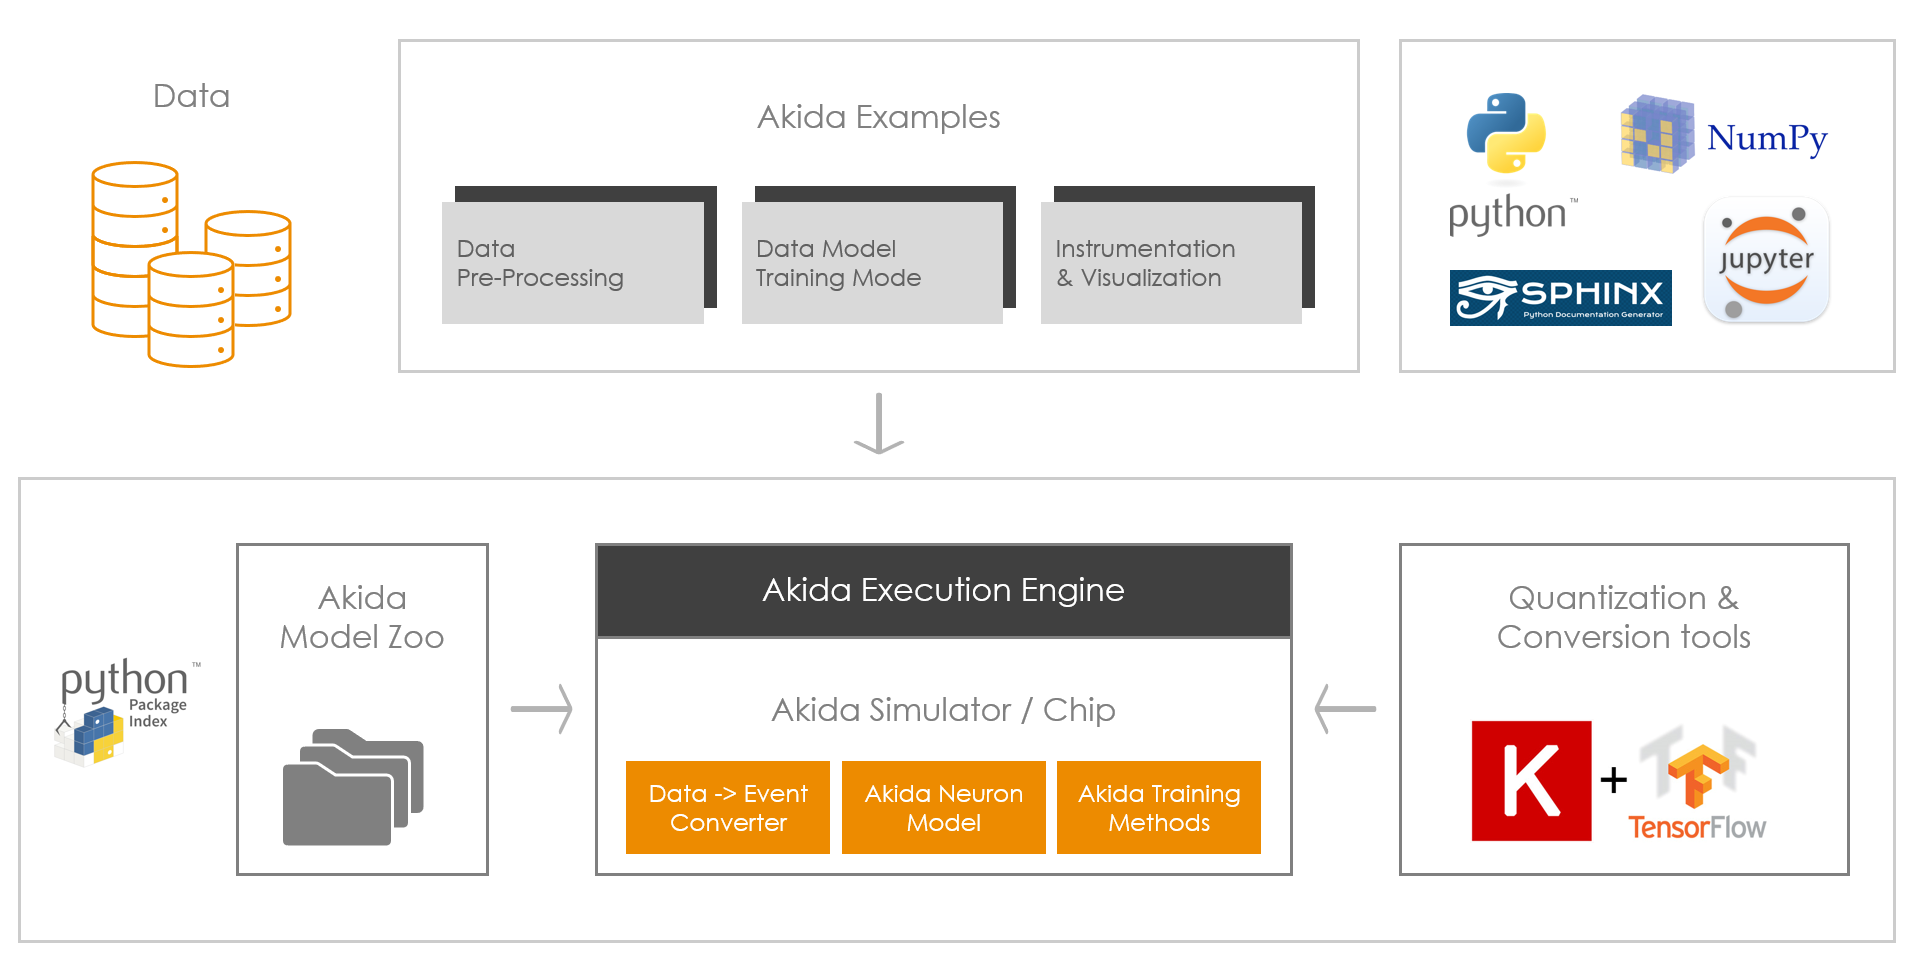
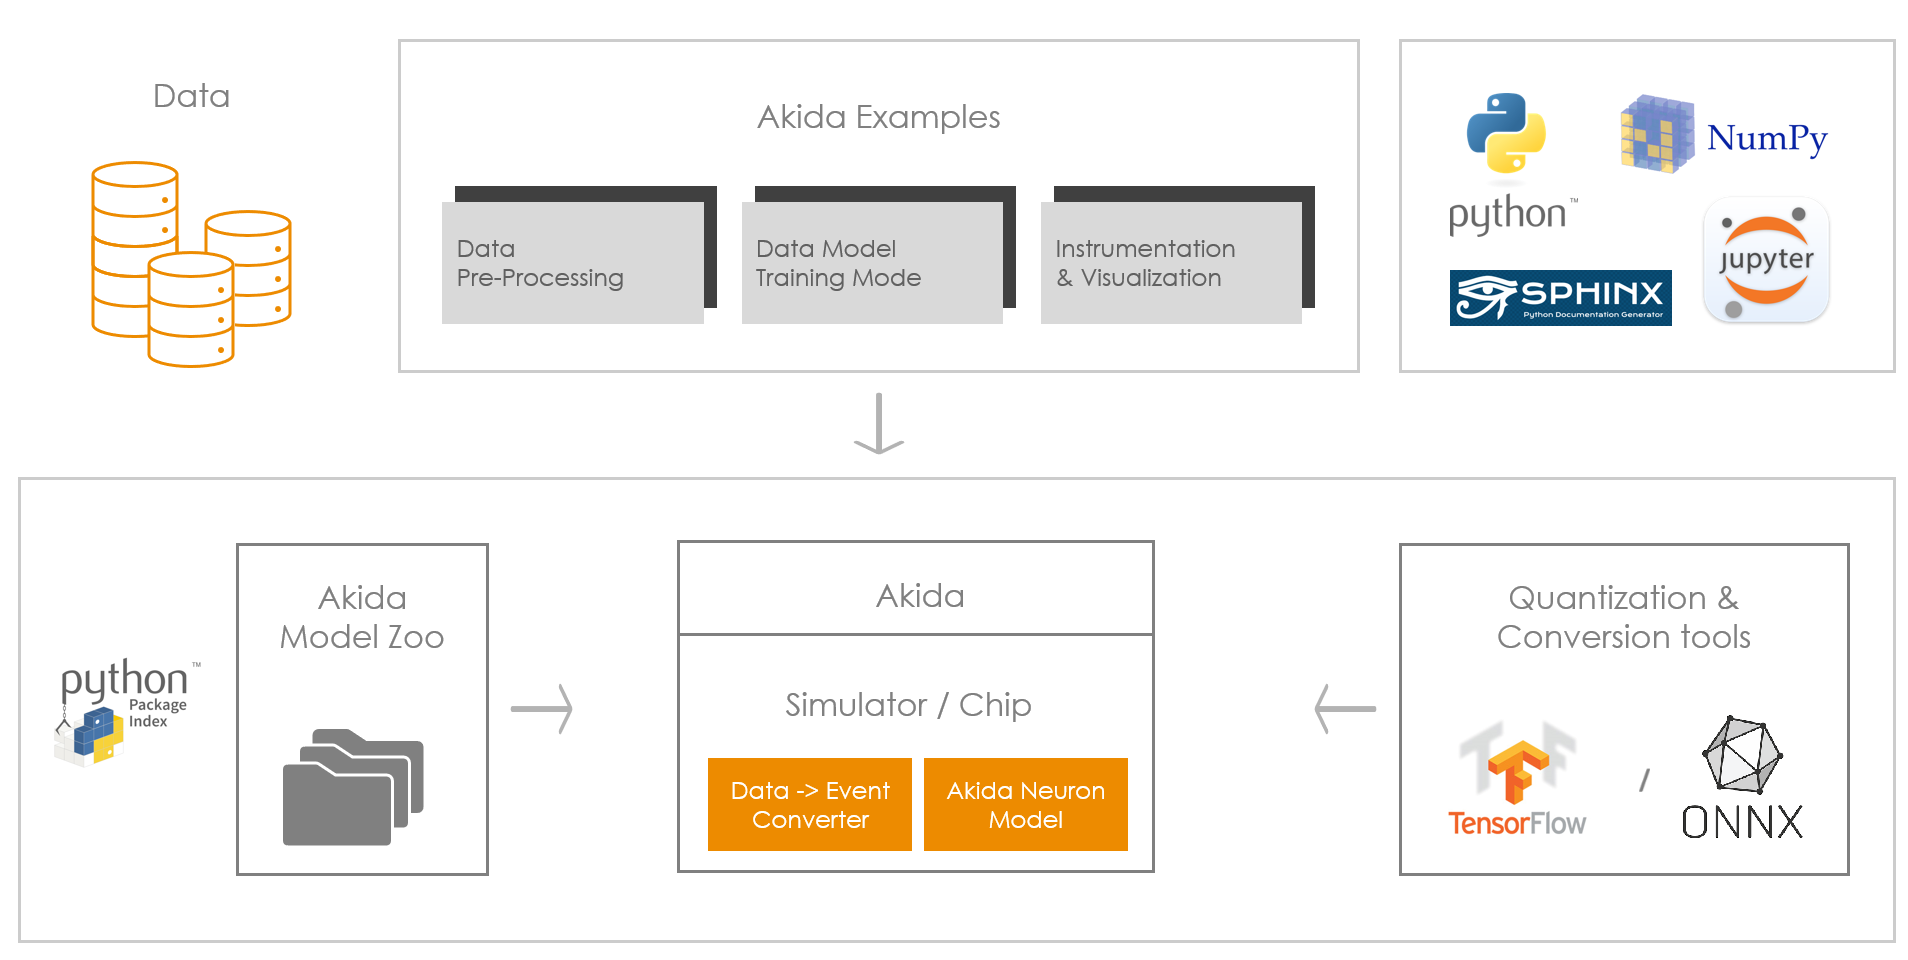
docs(index): add mention to tf-keras and onnx

diff --git a/doc/index.rst b/doc/index.rst
@@ -40,9 +40,10 @@ The Akida Neuromorphic ML Framework
 
 |
 |
-| MetaTF is comprised of four Python packages which leverage the
-  `TensorFlow <https://www.tensorflow.org/>`_ framework and are installed
-  from the `PyPI <https://pypi.org/>`_ repository via `pip` command.
+| MetaTF is comprised of four Python packages which leverage both the
+  `TensorFlow <https://www.tensorflow.org/>`_ (through
+  `TF-Keras <https://github.com/keras-team/tf-keras>`__) and `ONNX <https://onnx.ai/>`__`
+  frameworks, and are installed from the `PyPI <https://pypi.org/>`_ repository via `pip` command.
 | The four MetaTF packages contain:
 
   * a Model zoo (`akida-models <https://pypi.org/project/akida-models>`_) to
